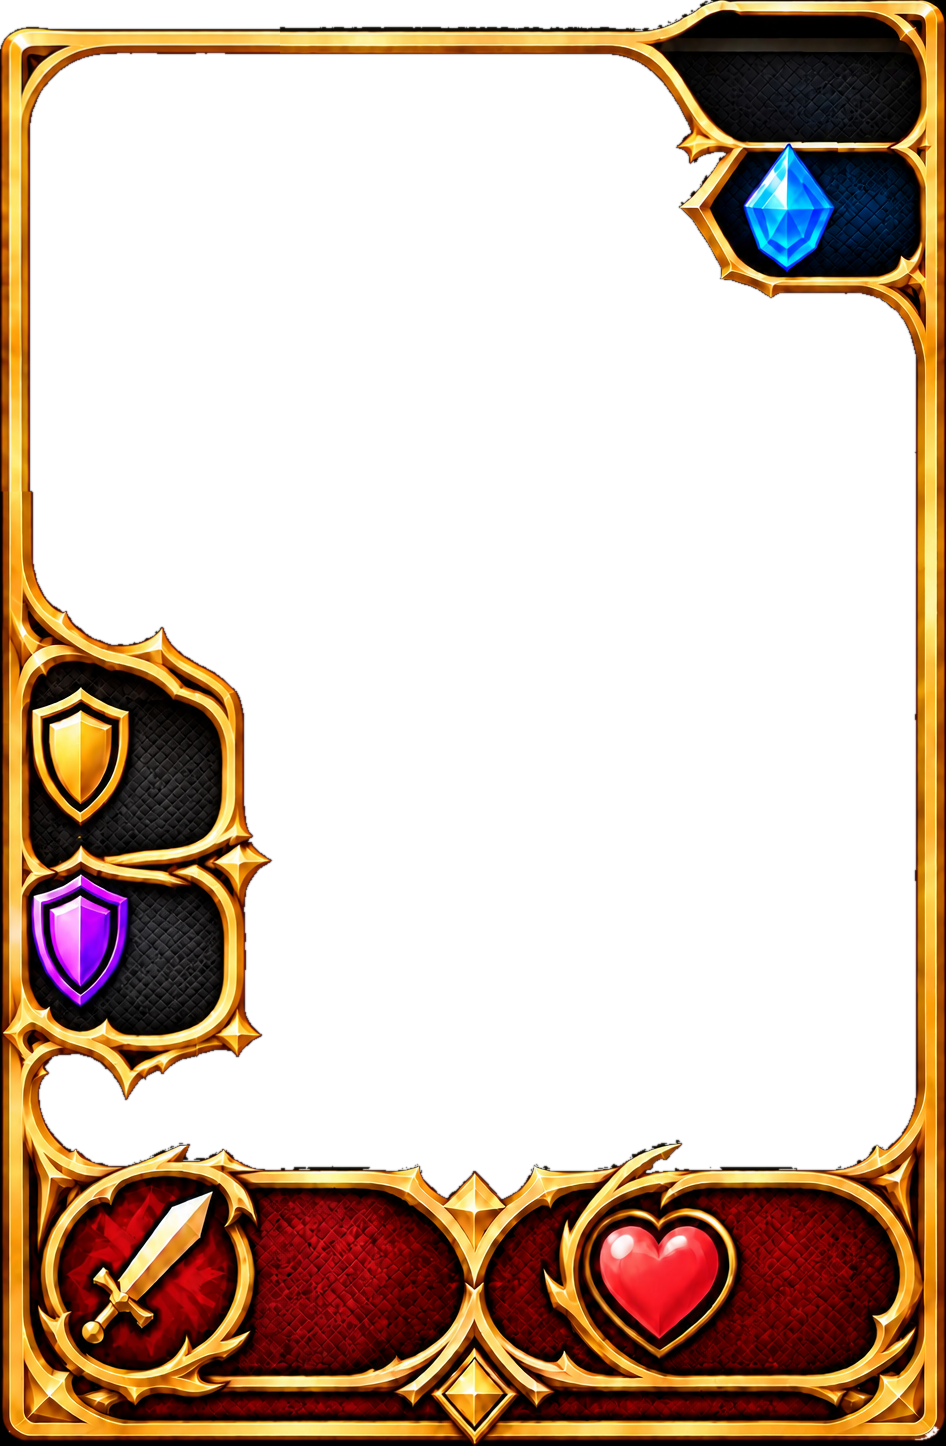
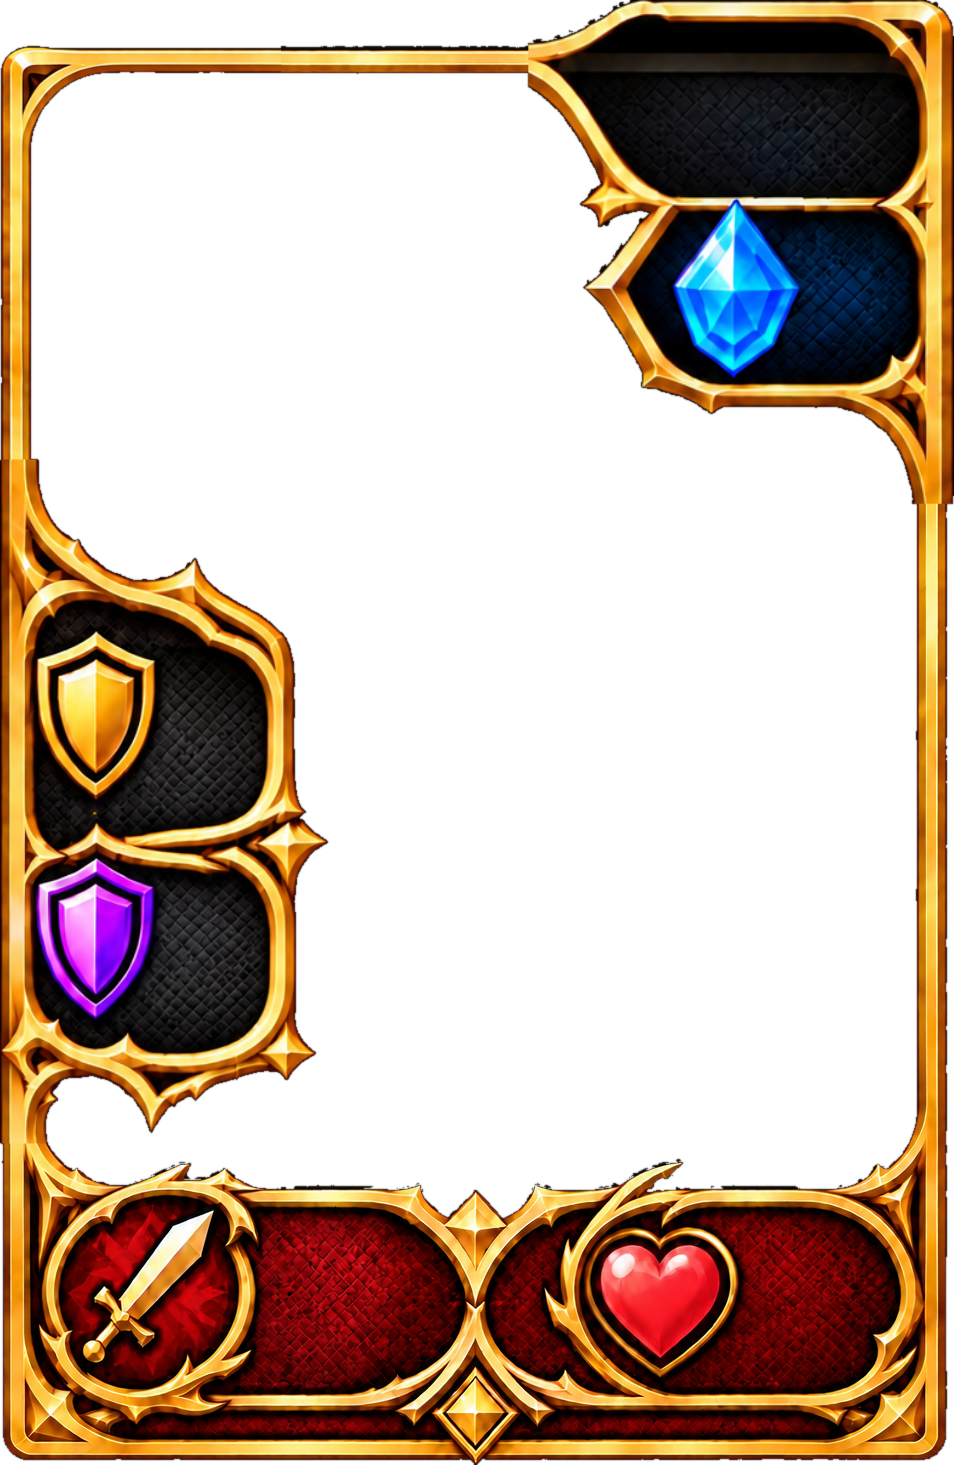
Khung lá quái trên tay mới, khung không gem, lá phép tay bỏ tên
Claude-Session: https://claude.ai/code/session_01XgSG6Z9xW8491CKVgy52Z1

diff --git a/src/lib/layouts.ts b/src/lib/layouts.ts
@@ -186,12 +186,12 @@ export const SHEET_SPOTS: Record<FieldKey, FieldSpot> = {
   count: { x: 57.1, y: 8.1, size: 30, width: 96, height: 22 },
 };
 export const HAND_SPOTS: Record<"stars" | "gems" | "def" | "mdef" | "atk" | "hp", Spot> = {
-  stars: { x: 84.6, y: 5.4, size: 10.5, width: 26, height: 8 },
-  gems: { x: 92.6, y: 15, size: 11, width: 9, height: 8 },
-  def: { x: 18.6, y: 52.6, size: 17, width: 10, height: 6 },
-  mdef: { x: 18.6, y: 64.7, size: 17, width: 10, height: 6 },
-  atk: { x: 37.9, y: 86.6, size: 18, width: 14, height: 9 },
-  hp: { x: 86.1, y: 86.6, size: 18, width: 14, height: 9 },
+  stars: { x: 80.2, y: 8.4, size: 13, width: 34, height: 11 },
+  gems: { x: 77, y: 19.2, size: 12, width: 14, height: 12 },
+  def: { x: 22, y: 47.6, size: 18, width: 12, height: 8 },
+  mdef: { x: 22, y: 63.3, size: 18, width: 12, height: 8 },
+  atk: { x: 37.7, y: 86.8, size: 19, width: 14, height: 9 },
+  hp: { x: 85.4, y: 86.5, size: 19, width: 14, height: 9 },
 };
 
 const BOARD_KEY = "clash-board-layout-v11";
@@ -226,7 +226,7 @@ export function saveAlert(glow: number, border: number) {
 }
 const CARD_KEY = "clash-card-layout";
 const SPELL_KEY = "clash-spell-layout";
-const HAND_KEY = "clash-card-hand";
+const HAND_KEY = "clash-card-hand-v2";
 const FIELD_KEY = "clash-field-card";
 const SPOT_VERSION = 4;
 

diff --git a/src/components/game/card-face.tsx b/src/components/game/card-face.tsx
@@ -169,7 +169,7 @@ export function CardFace({
       ) : spell ? (
         <img className="art" src={spellSrc(spell.id)} alt="" draggable={false} />
       ) : null}
-      <img className="frame" src={spell ? (hand ? "/spell-frame-hand.png" : "/spell-frame.png") : hand ? "/ui/frame-hand.png" : "/card-frame.png"} alt="" draggable={false} />
+      <img className="frame" src={spell ? (hand ? "/spell-frame-hand.png" : "/spell-frame.png") : hand ? (Number(gems ?? monster?.gems ?? 0) > 0 ? "/ui/frame-hand.png" : "/ui/frame-hand-nogem.png") : "/card-frame.png"} alt="" draggable={false} />
       {monster ? (
         <>
           {hand && !hideStats ? (
@@ -194,7 +194,7 @@ export function CardFace({
       ) : spell ? (
         <>
           {pin(hand && String(gems ?? spell.gems).length > 1 ? { ...spellSpots.gems, size: spellSpots.gems.size * 0.55 } : spellSpots.gems, gems ?? spell.gems)}
-          {hideName ? null : pin(spellSpots.name, tr(spell.name), true)}
+          {hideName || hand ? null : pin(spellSpots.name, tr(spell.name), true)}
           {hand && spellSpeed(spell.id) ? <img className={`speed speed-${spellSpeed(spell.id)}`} src={`/ui/speed-${spellSpeed(spell.id)}.webp`} alt="" draggable={false} /> : null}
           {badge ? <NewMark spot={spellSpots.fresh} kind={badge} /> : null}
         </>

diff --git a/src/lib/updates.ts b/src/lib/updates.ts
@@ -860,6 +860,7 @@ export const PENDING_NOTES: string[] = [
   "Lá quái trên tay đổi sang khung mới, các ô chỉ số được đặt lại cho khớp.",
   "Lá quái trên tay: số sao sát cạnh ngôi sao, các số có màu sáng và nổi hơn.",
   "Tuỳ chỉnh lại chỉnh được các chỉ số trên lá quái ở tay bài (khung mới); nhãn Mới tạm ẩn.",
+  "Lá quái trên tay đổi khung mới có ô sao và gem to hơn; lá không tốn gem dùng khung không có ô gem. Lá phép trên tay không còn tên. Các ô chỉ số đặt lại, chỉnh được trong Tuỳ chỉnh.",
 ];
 
 function remarkOf(notes: string[]) {

diff --git a/TIEP-TUC.md b/TIEP-TUC.md
@@ -614,3 +614,4 @@ Chủ game trả lời (29/10), CHƯA LÀM gì, chờ "ok" và trả lời câu 
 - KHUNG LÁ TAY ĐỔI ẢNH 02/11 (Sonnet medium; CHƯA áp `main`): `public/ui/frame-hand.png` thay bằng ảnh chủ game gửi (cắt sát, RGBA, ô chỉ số đặc), `HAND_SPOTS` giữ nguyên (bố cục ô trùng ảnh cũ). Chụp 412×915.
 - SAO TRÊN TAY SÁT + SỐ SÁNG 02/11 (Sonnet medium; CHƯA áp `main`): nguyên nhân cách xa = `.tag-stars b` min-width 0,9rem + gap; `.card .pin-stars` gap 0,05em, `b` min-width 0; số chỉ số và sao trộn 8–30% màu với trắng, quầng sáng đậm hơn, sao brightness 1,25.
 - TUỲ CHỈNH LÁ QUÁI TRÊN TAY 02/11 (Sonnet medium; CHƯA áp `main`): bố cục riêng `clash-card-hand` (`loadHand`/`saveHand`/`DEFAULT_HAND` = `HAND_SPOTS`, `HAND_MARKS` 6 ô: sao, gem, thủ, thủ phép, công, máu), `CardFace hand` đọc `loadHand()`, trang "Chỉnh lá quái trên tay" trong tune.tsx xem trước đúng khung mới; nhãn Mới (`NewMark`) ẩn trên lá tay. Bảng mô tả (`SHEET_SPOTS`) CHƯA chỉnh tay được. Chụp `/tmp/clashtest/box/tn.mjs`.
+- KHUNG LÁ QUÁI TAY MỚI 02/11 (Sonnet medium; chủ game gửi 2 ảnh `c478ed07` có gem, `181b40d9` không gem; ĐÃ LÀM, commit nhánh, CHƯA áp `main`): `public/ui/frame-hand.png` (có ô gem) và `frame-hand-nogem.png` (lá gem 0), RGBA cắt sát 954×1465, ô chỉ số đặc; `card-face.tsx` chọn khung theo `gems`; lá phép trên tay bỏ tên; `HAND_SPOTS` đo lại 6 ô (sao to 13); khoá lưu đổi `clash-card-hand-v2` để mặc định mới có hiệu lực (bố cục tay đã chỉnh cũ mất, chỉnh lại trong Tuỳ chỉnh). Số gem đè lên hình gem vẽ sẵn. Chụp 412×915 `/tmp/clashtest/box/hs.mjs`, `tn.mjs`. Chưa thử lá có gem trong trận bằng mắt (cảnh thử gem 0), điện thoại.
